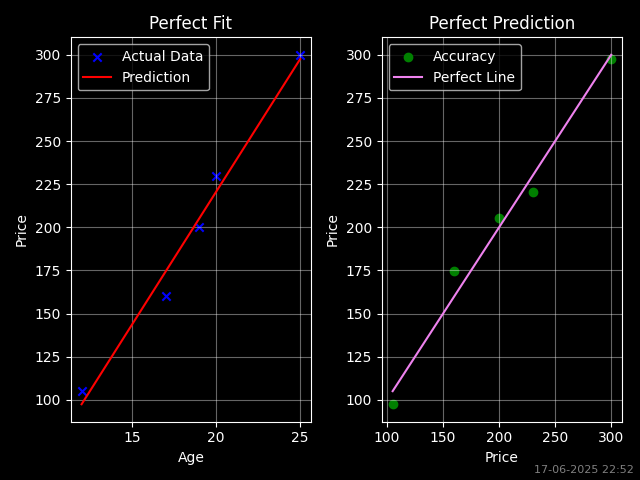
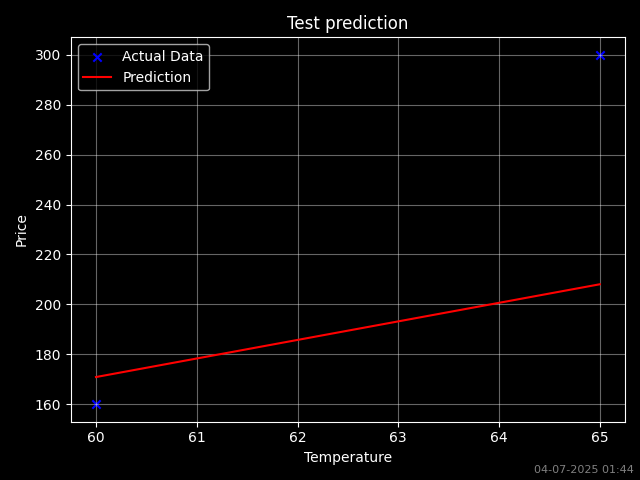
updated

diff --git a/Flask/templates/index.html b/Flask/templates/index.html
@@ -1,0 +1,32 @@
+<!DOCTYPE html>
+<html>
+<head>
+    <title>IRIS</title>
+</head>
+<body>
+    <h1 style="color: aqua; text-align: center;">Basic Prediction of IRIS Species</h1>
+    
+    <form method="POST">
+        <input type='number' step="0.01" id="Sepal_length" name="Sepal_length" placeholder="Enter Sepal Length" required>
+
+        <input type="number" step="0.01" id="Sepal_width" name="Sepal_width" placeholder="Enter Sepal Width" required>
+
+        <input type="number" step="0.01" id="Petal_length" name="Petal_length" placeholder="Enter Petal Length" required>
+
+        <input type="number" step="0.01" id="Petal_width" name="Petal_width" placeholder="Enter Petal Width" required>
+
+        <button type="submit">Submit</button>
+    </form>
+    
+    <h2 style="text-align: center;">Prediction:</h2>
+    <p>{{ output }}</p>
+    <h3 style="text-align: center;">Data: </h3>
+    <p>{{ data }}</p>
+    <p>{{ data2 }}</p>
+    <p>{{ data3 }}</p>
+    <p>{{ data4 }}</p>
+    <h4>Accuracy: </h4>
+    <p>{{ Accuracy }}</p>
+    
+</body>
+</html>

diff --git a/workplace_datas.py b/workplace_datas.py
@@ -1,7 +1,9 @@
 import numpy as np
 import pandas as pd
 import matplotlib.pyplot as plt
+from sklearn.metrics import r2_score, mean_absolute_error
 from sklearn.linear_model import LinearRegression
+from sklearn.model_selection import train_test_split
 import sqlite3
 from datetime import datetime
 import pytz
@@ -37,18 +39,27 @@ def main():
 
     set = sqlite3.connect('sample.db')
     df = connection(set)
-    print('Datas: ')
-    print(df)
 
-    #creating a XData and yData
+    #creating a Independent_var and Dependent_var
+    Independent_var = df[['temperature']] #independent Variable
+    Dependent_var = df.iloc[:, -1]
 
-    XData = df[['age']] #independent Variable
-    yData = df['Price']
+    variables = [Independent_var, Dependent_var]
 
-    variables = ['age', 'Price']
+    #Creating Train and Test set
+    X_train, X_test, y_train, y_test = train_test_split(Independent_var, Dependent_var, test_size=0.25, random_state=42)
     
-    model = LinearRegression().fit(XData, yData)
-    prediction = model.predict(XData)
+    model = LinearRegression().fit(X_train, y_train)
+    prediction = model.predict(X_test)
+
+    accuracy = {
+        "prediction": prediction,
+        "y_test": y_test, 
+        "error": abs(prediction - y_test),
+        "MAE": mean_absolute_error(y_test, prediction)
+    }
+
+    print(accuracy)
 
     plt.style.use('dark_background')
     fig = plt.figure()
@@ -56,12 +67,13 @@ def main():
     for i, data in enumerate(variables, start=1):
         if i == 1:
             plt.subplot(1, 2, i)
-            plt.title('Perfect Fit')
-            plt.xlabel('Age')
+            plt.title('Test prediction')
+            plt.xlabel('Temperature')
             plt.ylabel('Price')
             plt.grid(alpha=0.4)
-            plt.scatter(XData, yData, marker='x', color='blue', label='Actual Data')
-            plt.plot(XData, prediction, color='red', label='Prediction')
+            plt.scatter(X_test, y_test, marker='x', color='blue', label='Actual Data')
+            plt.plot(X_test, prediction, color='red', label='Prediction')
+
 
         elif i == 2:
             plt.subplot(1, 2, i)
@@ -69,8 +81,8 @@ def main():
             plt.xlabel('Price')
             plt.ylabel('Price')
             plt.grid(alpha=0.4)
-            plt.scatter(yData, prediction, marker='o', color='green', label='Accuracy')
-            plt.plot([yData.min(), yData.max()], [yData.min(), yData.max()], color='violet', label='Perfect Line')
+            plt.scatter(y_test, prediction, marker='o', color='green', label='Accuracy')
+            plt.plot([y_test.min(), y_test.max()], [y_test.min(), y_test.max()], color='violet', label='Perfect Line')
         plt.legend()
     
     fig.text(0.99, 0.01, time, color='gray', fontsize=8, ha='right', va='bottom')
@@ -79,6 +91,7 @@ def main():
     plt.show()
     print('The Program is executed Successfully')
     print(f'Predictions are {prediction}')
+    print(df)
 
 if __name__ == '__main__':
     main()

diff --git a/heart_classifier.py b/heart_classifier.py
@@ -1,0 +1,60 @@
+from sklearn.model_selection import train_test_split, GridSearchCV
+from sklearn.ensemble import RandomForestClassifier
+from sklearn.metrics import accuracy_score, confusion_matrix
+from sklearn.preprocessing import OneHotEncoder
+from sklearn.compose import ColumnTransformer
+import pandas as pd 
+import numpy as np
+
+class Main:
+    def main(self):
+        try:
+            #Load datasets
+            data = pd.read_csv('heart.csv')
+
+            #Study the datasets
+            '''
+            print(data.info())
+            print(data.describe())
+            print(data.isnull().sum())'''
+
+            #Independent and Dependent Var
+            Independent_var = data.iloc[:, :-1]
+            Dependent_var = data.iloc[:, -1]
+
+            #Category identifier and converted into list
+            Categorical_var = data.select_dtypes(include=['object', 'category']).columns.tolist()
+
+            #Split the dataset
+            X_train, X_test, y_train, y_test = train_test_split(Independent_var, Dependent_var, test_size=0.2, random_state=42)
+
+            #Encoding of categorical variable
+            Encoding = ColumnTransformer(transformers=[('cat', OneHotEncoder(), Categorical_var)], remainder='passthrough', verbose_feature_names_out=False)
+
+            X_train_encoded = Encoding.fit_transform(X_train) #use fit_transform always in X_train set
+            X_test_encoded = Encoding.transform(X_test) #transform to avoid overfitting or data leakage
+
+            #Create a grid parameter for the model
+
+            grid_param = {
+                'n_estimators': [100, 200, 300],
+                'max_depth': [None, 10, 20, 30],
+                'min_samples_split': [2, 5, 10],
+                'max_features': ['sqrt', 'log2'],
+            }
+
+            #Model
+            Model = GridSearchCV(RandomForestClassifier(random_state=42), grid_param, cv=5).fit(X_train_encoded, y_train)
+            prediction_test = Model.predict(X_test_encoded)
+
+            print(accuracy_score(y_test, prediction_test))
+            print(confusion_matrix(y_test, prediction_test))
+
+        except Exception as e:
+            print(e)
+
+        finally:
+            print('Thank you for using the program')
+
+if __name__ == '__main__':
+    Main().main()

diff --git a/Flask/app.py b/Flask/app.py
@@ -1,0 +1,49 @@
+from flask import Flask, request, render_template
+from sklearn.model_selection import train_test_split
+from sklearn.ensemble import RandomForestClassifier
+from sklearn.metrics import accuracy_score
+import seaborn as sns
+import pandas as pd
+
+app = Flask(__name__)
+
+# Route for the home page with a form
+@app.route('/', methods=['GET', 'POST'])
+def home():
+    data = sns.load_dataset('iris')
+
+    Independent_var = data.iloc[:, :-1]
+    Dependent_var = data.iloc[:, -1]
+
+    X_train, X_test, y_train, y_test = train_test_split(Independent_var, Dependent_var, test_size=0.5, random_state=0)
+
+    model = RandomForestClassifier(random_state=0, criterion='gini').fit(X_train, y_train)
+
+    y_pred = model.predict(X_test)
+
+    output = "please enter all necessary data....."
+    data = "not yet inputted"
+    data2 = "not yet inputted"
+    data3 = "not yet inputted"
+    data4 = "not yet inputted"
+    Accuracy = str(round(accuracy_score(y_test, y_pred), 2) * 100) + "%"
+
+    if request.method == 'POST':
+
+        # Get input from form
+        Sepal_length = float(request.form.get('Sepal_length'))
+        Sepal_width = float(request.form.get('Sepal_width'))
+        Petal_length = float(request.form.get('Petal_length'))
+        Petal_width = float(request.form.get('Petal_width'))
+
+        output = "The Species of iris is " + str(model.predict([[Sepal_length, Sepal_width, Petal_length, Petal_width]])[0]).upper()
+        data = "sepal length: " + str(Sepal_length)
+        data2 = "sepal width: " + str(Sepal_width)
+        data3 = "petal length: " + str(Petal_length)
+        data4 = "petal width: " + str(Petal_width)
+
+    # Render the template with the output
+    return render_template('index.html', output=output, data=data, data2 = data2, data3 = data3, data4 = data4, Accuracy = Accuracy)
+
+if __name__ == '__main__':
+    app.run(host='0.0.0.0', port=5050, debug=False)

diff --git a/workplace2.py b/workplace2.py
@@ -1,7 +1,9 @@
 from sklearn.ensemble import RandomForestClassifier
 from sklearn.metrics import accuracy_score, confusion_matrix
+from sklearn.neighbors import KNeighborsClassifier
 from sklearn.preprocessing import StandardScaler
 from sklearn.model_selection import GridSearchCV, train_test_split
+from sklearn.linear_model import LogisticRegression
 import seaborn as sns
 import numpy as np 
 import pandas as pd
@@ -17,21 +19,25 @@ class Main:
                 
             data = sns.load_dataset('iris')
 
-            Independent_var = data.iloc[:, :-1]
-            Dependendent_var = data.iloc[:, -1]
+            Independent_var = data.drop(['species'], axis=1)
+            Dependendent_var = data['species']
 
-            X_train, X_test, y_train, y_test = train_test_split(Independent_var, Dependendent_var, test_size=0.2, random_state=42)
+            X_train, X_test, y_train, y_test = train_test_split(Independent_var, Dependendent_var, test_size=0.5, random_state=0)
 
             '''
             scaler = StandardScaler()
             X_train_scaled = scaler.fit_transform(X_train)'''
 
-            model = RandomForestClassifier(criterion='gini', random_state=42).fit(X_train, y_train)
+            #model = KNeighborsClassifier().fit(X_train, y_train)
+            model = LogisticRegression().fit(X_train, y_train)
 
-            y_pred = model.predict(X_train)
+            y_pred = model.predict(X_test)
 
+            '''
             for i, datas in enumerate(model.feature_importances_):
-                print(f'{X_train.columns[i]}: {datas}')
+                print(f'{X_train.columns[i]}: {datas}')'''
+
+            print(accuracy_score(y_test, y_pred))
 
             #print(model.feature_importances_.argsort()[::-1])
         except Exception as e:

diff --git a/heart_RTC.py b/heart_RTC.py
@@ -1,12 +1,14 @@
 #THIS IS A RANDOM TREE CLASSIFIER
 import numpy as np
 import pandas as pd
+from sklearn.tree import DecisionTreeClassifier, plot_tree
 from sklearn.model_selection import train_test_split
 from sklearn.linear_model import LinearRegression, LogisticRegression
 from sklearn.metrics import accuracy_score, mean_absolute_error, r2_score, confusion_matrix
 from sklearn.compose import ColumnTransformer
 from sklearn.preprocessing import OneHotEncoder
 from sklearn.ensemble import RandomForestClassifier
+from sklearn.neighbors import KNeighborsClassifier
 
 def main():
     try:
@@ -29,11 +31,17 @@ def main():
         X_train_encoded = Encoding.fit_transform(X_train) #Fit_transform
         X_test_encoded = Encoding.transform(X_test) #transform, to avoid overfitting
 
-        model = RandomForestClassifier(criterion='gini', random_state=42, max_depth=10, max_samples=100).fit(X_train_encoded, y_train)
-        #model = LogisticRegression(max_iter=100).fit(X_train_encoded, y_train)
+        
+        model = DecisionTreeClassifier(criterion='gini', random_state=42).fit(X_train_encoded, y_train)
+        #model = LogisticRegression(max_iter=1000).fit(X_train_encoded, y_train)
+        #model = KNeighborsClassifier().fit(X_train_encoded, y_train)
+        #model = RandomForestClassifier().fit(X_train_encoded, y_train)
         y_pred_test = model.predict(X_test_encoded)
 
         accuracy = accuracy_score(y_test, y_pred_test) * 100
+        print(accuracy)
+
+        print(confusion_matrix(y_test, y_pred_test))
         
     except Exception as e:
         print(e)

diff --git a/Cat_num.py b/Cat_num.py
@@ -4,6 +4,8 @@ from sklearn.metrics import r2_score, mean_absolute_error #To see the accuracy
 from sklearn.preprocessing import OneHotEncoder #To convert categorical data into numerical
 from sklearn.compose import ColumnTransformer #Upon convertion it is necessary to make it array
 from sklearn.linear_model import LinearRegression
+from sklearn.datasets import load_iris
+import seaborn as sns
 import numpy as np 
 import pandas as pd #To access the data frame
 from scipy import stats
@@ -44,8 +46,6 @@ class Main:
 
             #Split the dataframe into Train and Test
             X_train, X_test, y_train, y_test = train_test_split(Independent_var, Dependent_var, test_size=0.2, random_state=42)
-
-            print(X_train_scaled)
                         
             #Transformed the categorical Data into Numerical Data but in a Binary way since the data are nominal
             Categorical_var = dataframe.select_dtypes(include=['object']).columns.tolist()

diff --git a/decision_tree.py b/decision_tree.py
@@ -13,7 +13,6 @@ def main():
     Independent_var = dataset.drop(['species'], axis=1)
     Dependent_var = dataset['species']
 
-
     Independent_var_names = Independent_var.columns.tolist()
 
     X_train, X_test, y_train, y_test = train_test_split(Independent_var, Dependent_var, test_size=0.2, random_state=42)
